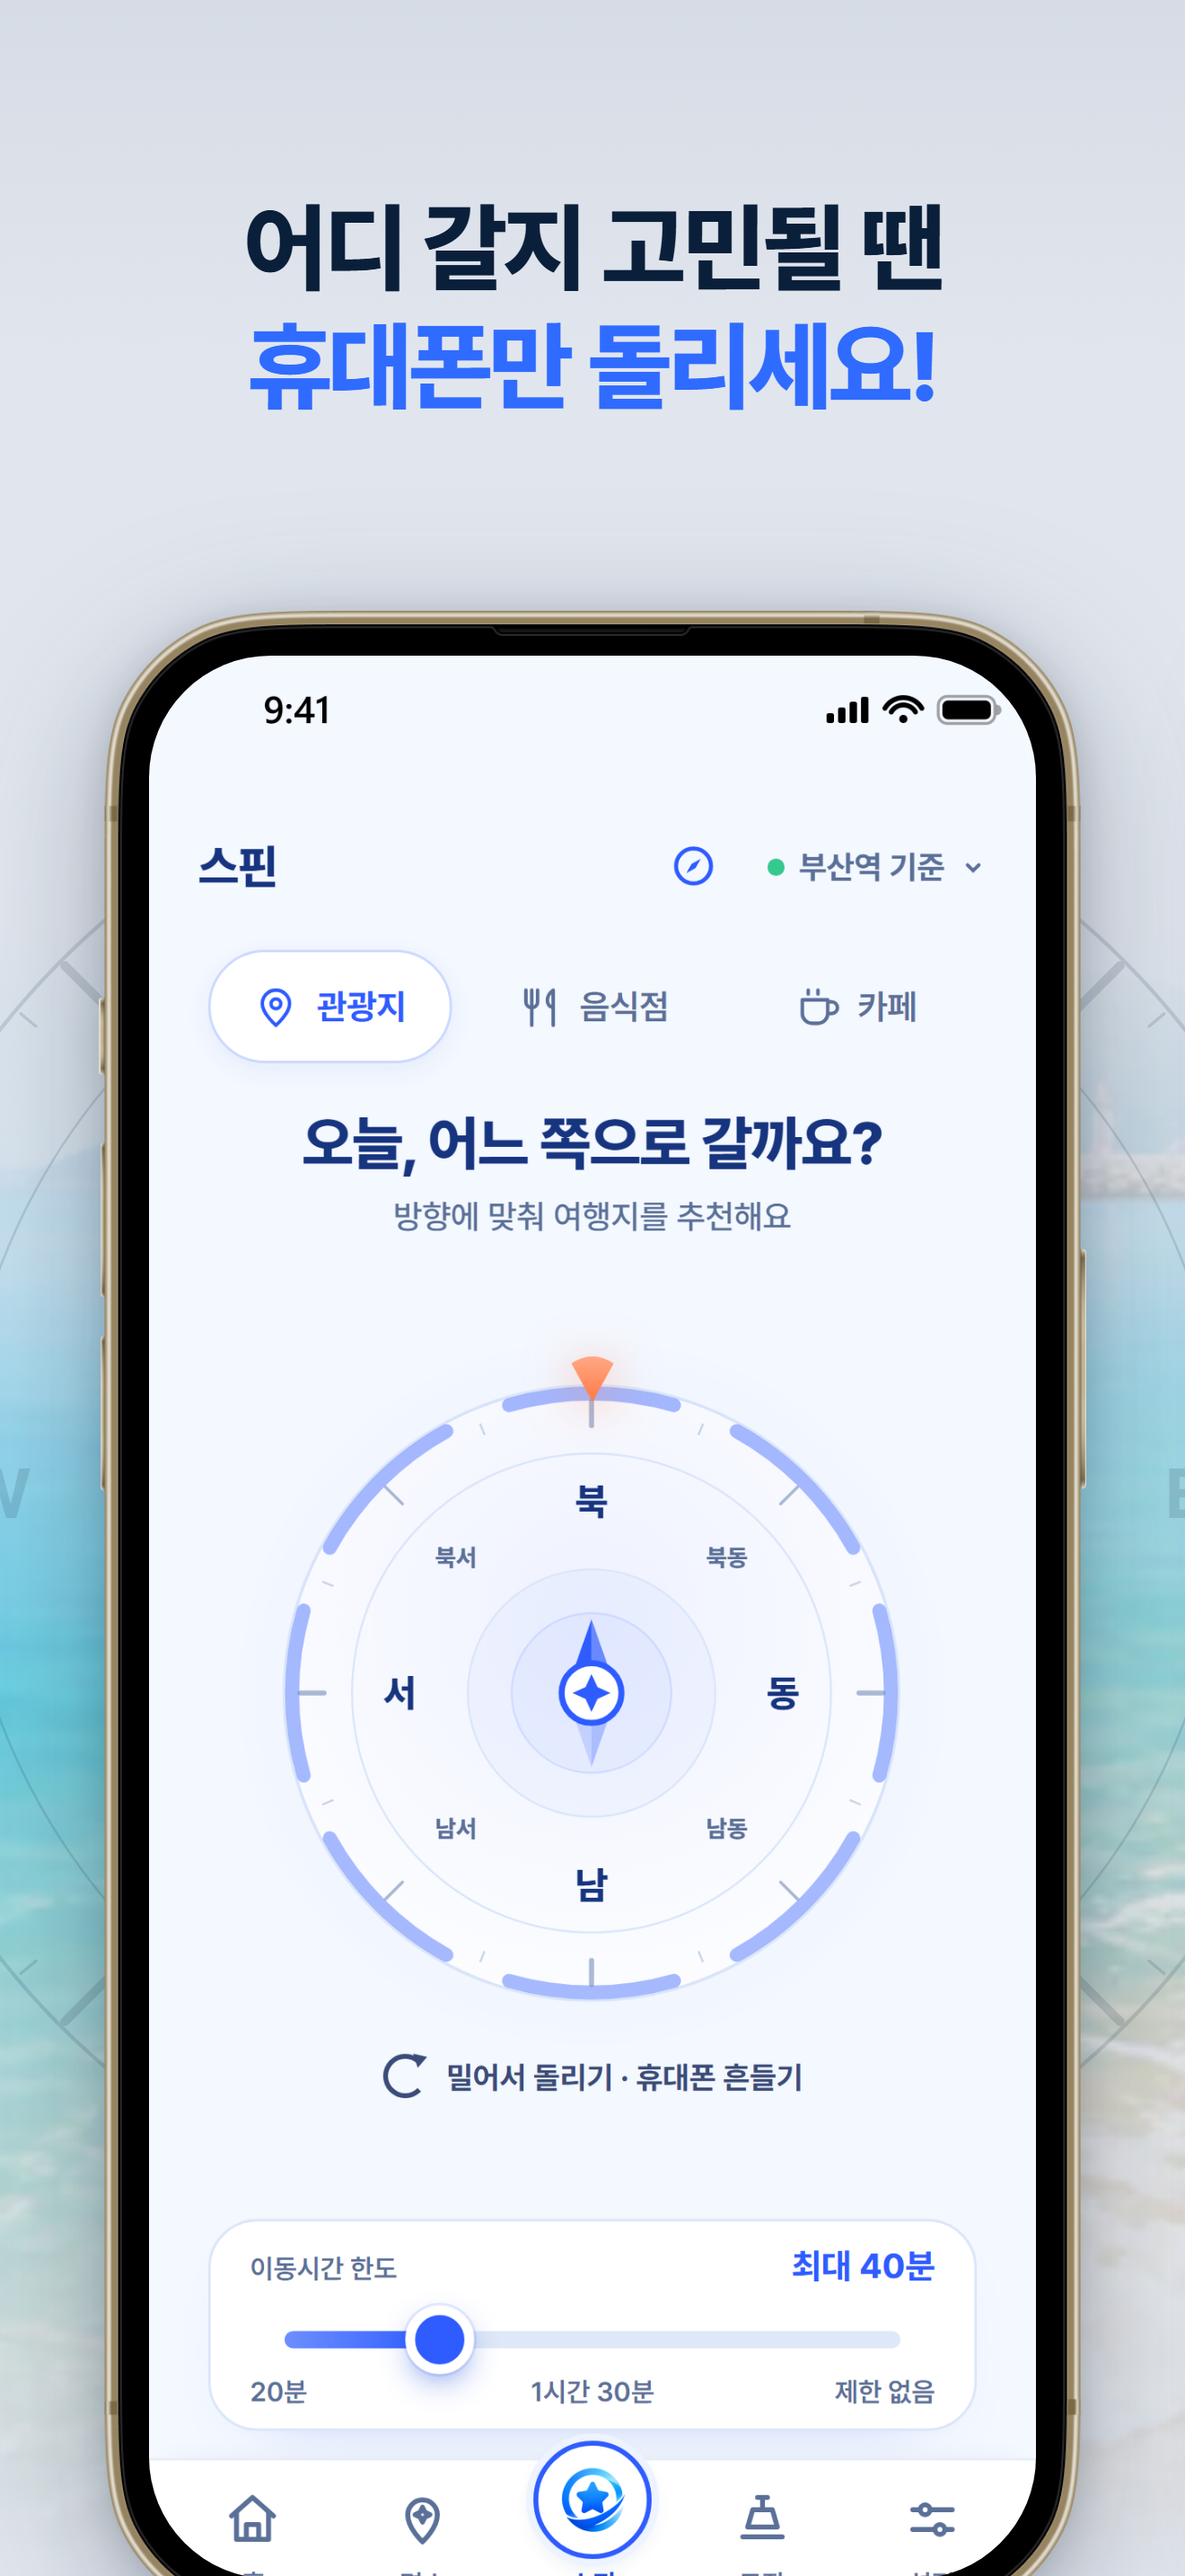
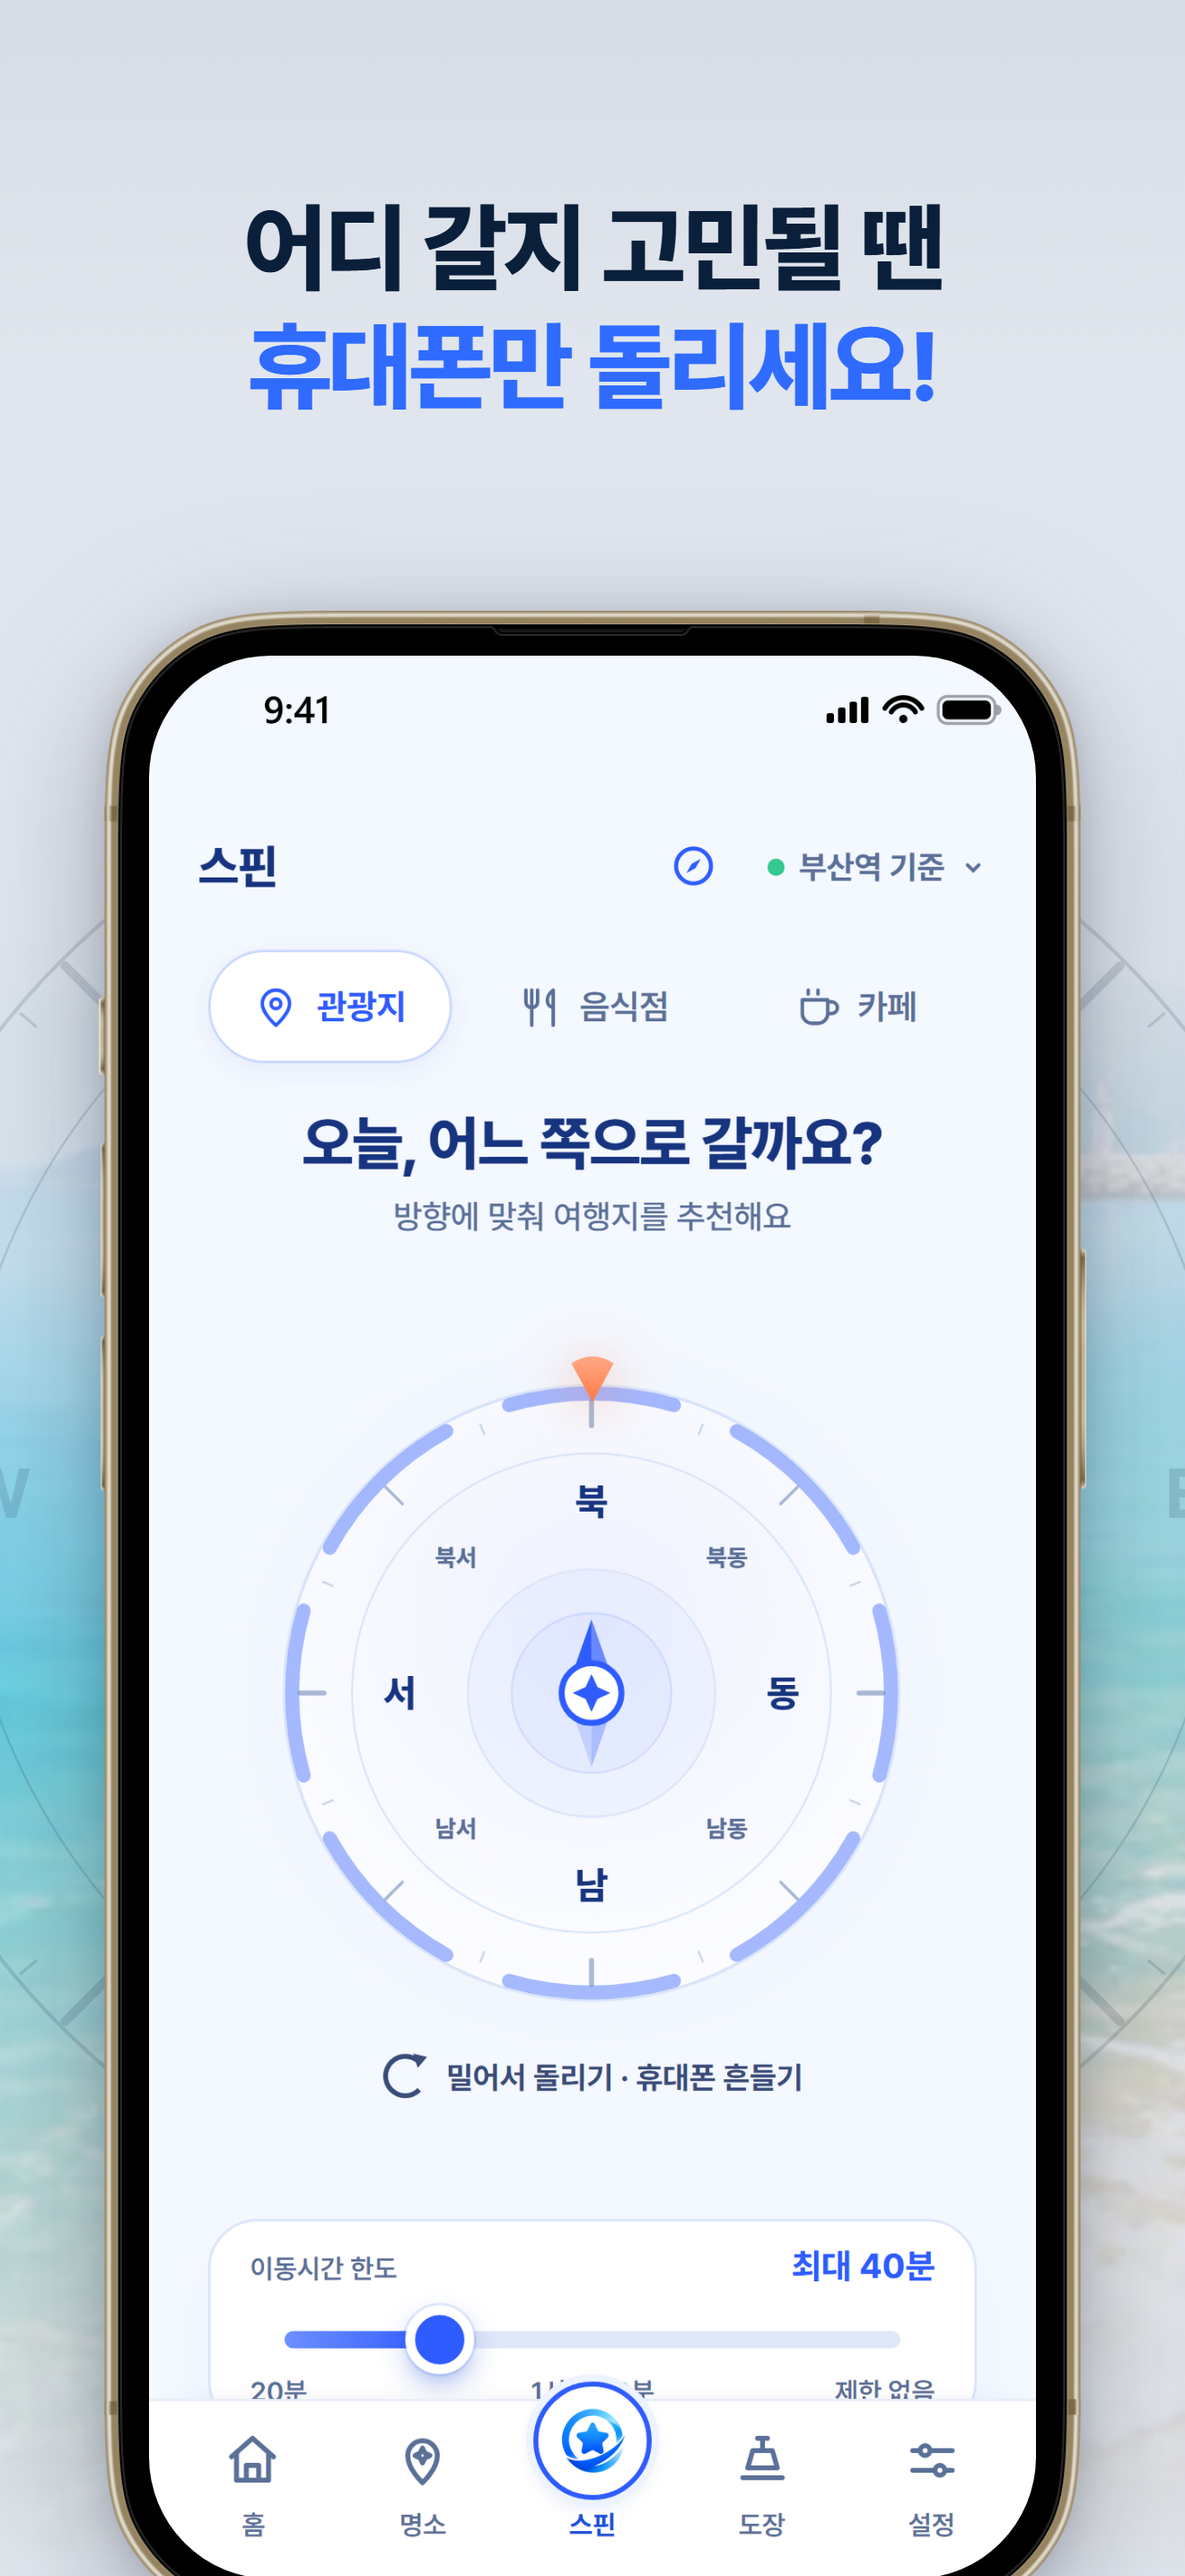
fix(store): 스크린샷 export를 되살리고 도장 개수를 바로잡는다
export:ios가 900초 다운로드 대기에서 타임아웃하고 있었다. 원인은
tailwind.config.ts가 ESM으로 로드되는데 plugins에서 require()를 쓴 것이다.
Node 24부터 여기서 ReferenceError가 나고, 그 여파로 루트 페이지의 CSS 컴파일이
통째로 실패한다. 그러면 에디터가 app-store-screenshots.json을 읽지 못해
기본값(locale en, 존재하지 않는 샘플 이미지)으로 떨어지고 20개 렌더가 전부
실패해 다운로드 이벤트가 영영 오지 않는다. 헤드리스라 이 토스트를 볼 수 없어
증상만 타임아웃으로 보였다.

도장 화면 캡션이 `원도심 55곳`이었는데 실제 도장 대상은 48곳이다
(영도구 14 + 동구 11 + 서구 10 + 중구 13 — mock/stamps.ts의 zones가
POI_POOL을 이 4개 구로 걸러 만든다). 앱 홈에도 0/48로 뜬다. iOS·Android
덱 양쪽을 48곳으로 고쳤다.

스크린샷 5장은 프로덕션 캡처 기준으로 다시 구웠다. 하단 내비 라벨이
목업 프레임에 잘리던 것도 이번 캡처에서는 해소됐다 —
capture-web이 홈 인디케이터 여백 34px를 주입한 덕이다.

검증: npm run check 통과 (web 416 + proxy 26), 5장 육안 확인.

Claude-Session: https://claude.ai/code/session_012khYwuyPqoxtsXQjXQ9szk

Changed region(s): [[0.1864, 0.8999, 0.8076, 1.0]]

diff --git a/tools/store-screenshots/tailwind.config.ts b/tools/store-screenshots/tailwind.config.ts
@@ -1,4 +1,8 @@
 import type { Config } from "tailwindcss";
+// ESM으로 로드된다 — Node 24부터 여기서 require()를 쓰면 ReferenceError가 나고
+// 그 여파로 루트 페이지의 CSS 컴파일이 통째로 실패한다 (에디터가 기본값으로 떨어져
+// "All 20 renders failed"가 된다).
+import tailwindcssAnimate from "tailwindcss-animate";
 
 const config: Config = {
   darkMode: ["class"],
@@ -62,6 +66,6 @@ const config: Config = {
       },
     },
   },
-  plugins: [require("tailwindcss-animate")],
+  plugins: [tailwindcssAnimate],
 };
 export default config;
